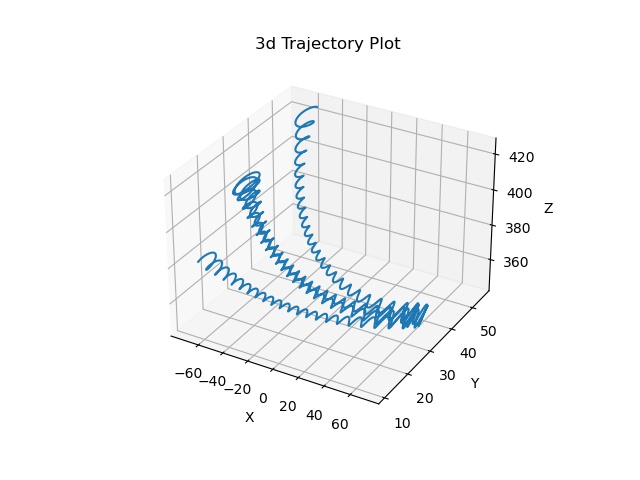
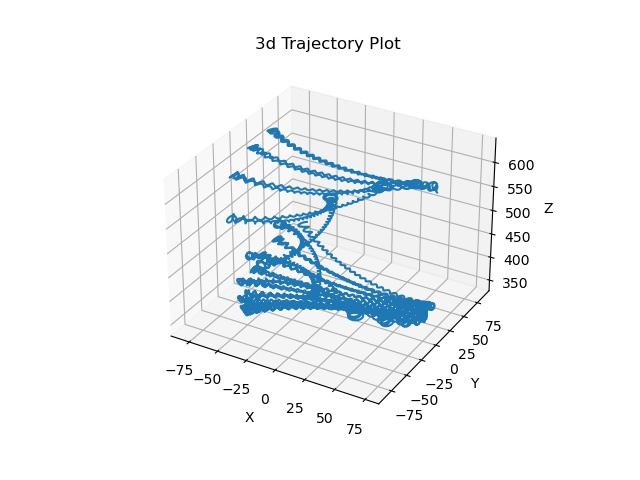
used array slicing notation better, updated graph

diff --git a/Quiz3/trajectory.py b/Quiz3/trajectory.py
@@ -7,28 +7,19 @@ from mpl_toolkits.mplot3d import Axes3D
 h5_file = h5py.File("Quiz3/test_ssx_particle_trajectory.h5", 'r')
 position_array = h5_file['r'][()]
 
-xarray, yarray, zarray = np.split(position_array, 3, 1)
-x1d = np.array([])
-y1d = np.array([])
-z1d = np.array([])
-
-# getting rid of almost empty second dimension to plot (not sure why it is there)
-for i in range(10000):
-    x1d = np.append(x1d, xarray[i][0])
-    y1d = np.append(y1d, yarray[i][0])
-    z1d = np.append(z1d, zarray[i][0])
-
-h5_file.close()
+xarray = position_array[:, 0]
+yarray = position_array[:, 1]
+zarray = position_array[:, 2]
 
 # create a 3D axis object
 ax = plt.gcf().add_subplot(111, projection='3d')
 # make a plot of a trajectory given x, y, and z arrays as a function of time
-ax.plot(x1d, y1d, z1d)
+ax.plot(xarray, yarray, zarray)
 ax.set_title("3d Trajectory Plot")
 ax.set_xlabel('X')
 ax.set_ylabel('Y')
 ax.set_zlabel('Z')
 
-# plt.savefig("trajectoryplot.jpg")
+plt.savefig("trajectoryplot.jpg")
 
 plt.show()
